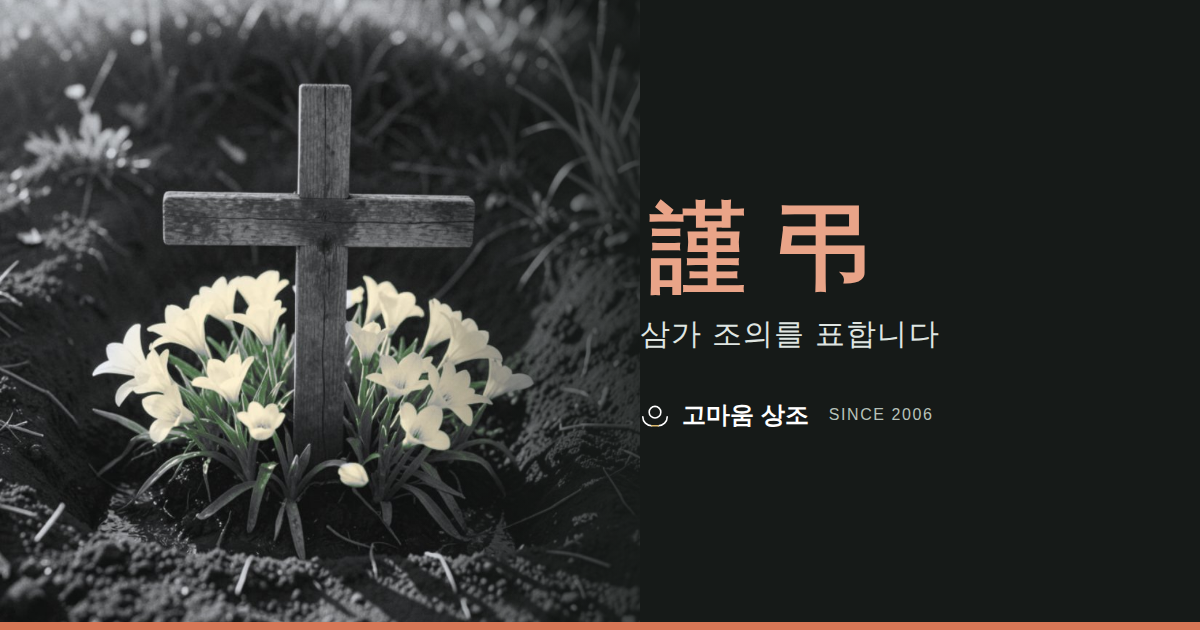
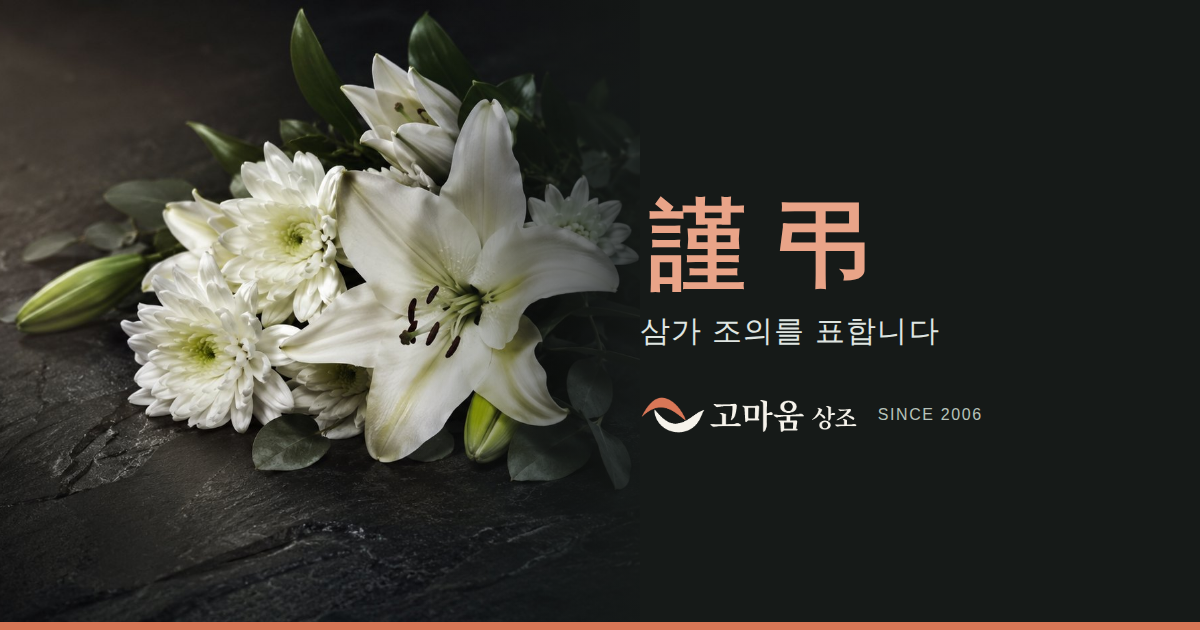
좁은 화면에서 표를 옆으로 밀지 않고 한 줄씩 세움
휴대폰에서 네 칸짜리 표를 옆으로 밀면 왼쪽 글자가 잘려 나가고 지금
어느 칸을 보는지 알 수 없었다. 한 줄을 한 장으로 세운다. 첫 칸이
연한 초록 머리가 되고, 나머지 칸은 이름과 값이 위아래로 놓인다.

칸 이름은 값 옆이 아니라 위에 올린다. 옆에 두면 값 안의 굵은 글씨가
칸 이름 자리로 떨어져 나가 엉뚱한 데 찍힌다.

세로로 묶인 칸(rowspan)이 있는 표는 세울 수 없다. 계산기의 항목별
내역과 단가표 두 곳이 여기 해당한다. 그 셋만 예전처럼 옆으로 밀되
안내 문구를 그대로 둔다. 좁은 화면에 맞춰 이미 짜 둔 비교표 여덟 개는
건드리지 않는다.

열아홉 쪽을 390px에서 확인했다. 세운 표 21, 미는 표 3, 그대로 8이고
가로로 넘치거나 잘리는 칸은 없다.

부고장 미리보기 카드에서 십자가를 빼고 백합만 남겼다. 특정 종교로
읽히지 않게 한다. 상호 자리에는 다른 쪽과 같은 로고를 넣었다.

Claude-Session: https://claude.ai/code/session_01GkdHr9oZgWkji8dZFs8UMJ

diff --git a/assets/css/gomaum.css b/assets/css/gomaum.css
@@ -1634,3 +1634,91 @@ section.gm-sec > h3 + ol { margin-top: 0; }
   .step .when { display: flex; align-items: center; gap: 8px; margin-bottom: 4px; }
   .step .when span { margin-top: 0; }
 }
+
+/* =========================================================
+   좁은 화면의 표 — 옆으로 밀지 않고 한 줄을 한 장으로 세운다
+   휴대폰에서 네 칸짜리 표를 옆으로 밀면 왼쪽 글자가 잘려 나가고
+   지금 어느 칸을 보고 있는지 알 수 없다. 한 줄을 한 장으로 세우고
+   칸 이름을 값 앞에 적어 위에서 아래로 읽히게 한다.
+   세로로 묶인 칸이 있는 표(계산기·단가표 일부)는 그대로 둔다.
+   ========================================================= */
+@media (max-width: 760px) {
+  .tw.tw-stack {
+    overflow-x: visible;
+    border: 0;
+    background: none;
+    box-shadow: none;
+    margin: 16px 0 20px;
+  }
+  .tw.tw-stack::after { content: none; }
+  .tw.tw-stack table { display: block; width: 100%; min-width: 0; }
+  .tw.tw-stack tbody { display: block; }
+
+  /* 칸 이름 줄은 화면에서 감춘다. 읽어 주는 기계에는 그대로 남는다. */
+  .tw.tw-stack thead {
+    position: absolute;
+    width: 1px; height: 1px;
+    overflow: hidden;
+    clip-path: inset(50%);
+    white-space: nowrap;
+  }
+  .tw.tw-stack caption {
+    display: block;
+    text-align: left;
+    padding: 0 0 8px;
+    font-size: 0.8rem;
+    font-weight: 700;
+    color: var(--ink-3);
+    letter-spacing: 0.02em;
+  }
+
+  .tw.tw-stack tr {
+    display: block;
+    background: var(--surface);
+    border: 1px solid var(--line);
+    box-shadow: var(--shadow);
+    margin: 0 0 10px;
+  }
+  .tw.tw-stack tr:last-child { margin-bottom: 0; }
+
+  .tw.tw-stack td {
+    display: block;
+    width: auto;
+    padding: 9px 14px 11px;
+    border: 0;
+    border-top: 1px solid var(--line);
+    white-space: normal;
+    text-align: left;
+    font-size: 0.95rem;
+    line-height: 1.62;
+  }
+  .tw.tw-stack td::before {
+    content: attr(data-label);
+    display: block;
+    margin-bottom: 1px;
+    font-size: 0.76rem;
+    font-weight: 700;
+    line-height: 1.7;
+    color: var(--ink-3);
+    letter-spacing: 0.02em;
+    word-break: keep-all;
+  }
+  .tw.tw-stack td:not([data-label])::before { content: none; }
+
+  /* 첫 칸은 그 줄의 이름이다. 장의 머리처럼 띄운다. */
+  .tw.tw-stack td:first-child {
+    display: block;
+    border-top: 0;
+    padding: 10px 14px;
+    background: var(--accent-soft);
+    color: var(--accent-deep);
+    font-weight: 700;
+    font-size: 1rem;
+  }
+  .tw.tw-stack td:first-child::before { content: none; }
+
+  /* 숫자 칸도 왼쪽에 붙인다. 세로로 서면 오른쪽 정렬은 읽기 어렵다. */
+  .tw.tw-stack td.num, .tw.tw-stack td.num::before { text-align: left; }
+  .tw.tw-stack td.num { font-family: var(--f-body); }
+  .tw.tw-stack td > .num, .tw.tw-stack td .tbd { white-space: normal; }
+}

diff --git a/assets/js/gm-menu.js b/assets/js/gm-menu.js
@@ -84,8 +84,47 @@
     var n3 = head.nextElementSibling && head.nextElementSibling.classList.contains("now3") ? head.nextElementSibling : head;
     n3.insertAdjacentHTML("afterend", q);
     document.querySelectorAll(".tier-call").forEach(function (a) { if (raw) a.href = "tel:" + raw; else { a.textContent = "상담 준비 중"; a.removeAttribute("href"); } });
-    // 표 안내
+    // 표: 좁은 화면에서는 옆으로 밀지 않고 한 줄을 한 장으로 세운다.
+    // 칸 이름을 각 칸에 붙여 두면 CSS가 "이름 / 값"으로 펼친다.
+    // 세로로 묶인 칸(rowspan)이 있는 표는 세울 수 없으므로 밀어 보는 그대로 둔다.
+    function colNames(table) {
+      var head = table.querySelector("thead tr");
+      if (!head) return null;
+      var names = [], hs = head.querySelectorAll("th");
+      for (var i = 0; i < hs.length; i++) {
+        var n = hs[i].textContent.trim();
+        for (var s = 0; s < (hs[i].colSpan || 1); s++) names.push(n);
+      }
+      if (names.length < 2) return null;
+      var body = table.querySelectorAll("tbody tr");
+      if (!body.length) return null;
+      for (var r = 0; r < body.length; r++) {
+        var cs = body[r].children;
+        for (var c = 0; c < cs.length; c++) if ((cs[c].rowSpan || 1) > 1) return null;
+      }
+      return names;
+    }
     document.querySelectorAll(".tw").forEach(function (t) {
+      var table = t.querySelector("table");
+      // cmp·wrap 표는 이미 좁은 화면에 맞춰 짜 두었다. 건드리지 않는다.
+      var fixed = t.classList.contains("cmp") || t.classList.contains("wrap");
+      var names = (table && !fixed) ? colNames(table) : null;
+      if (names) {
+        table.querySelectorAll("tbody tr").forEach(function (tr) {
+          var col = 0;
+          [].forEach.call(tr.children, function (td) {
+            var span = td.colSpan || 1;
+            var seen = {}, parts = [];
+            for (var i = col; i < col + span && i < names.length; i++) {
+              if (names[i] && !seen[names[i]]) { seen[names[i]] = 1; parts.push(names[i]); }
+            }
+            if (parts.length) td.setAttribute("data-label", parts.join(" · "));
+            col += span;
+          });
+        });
+        t.classList.add("tw-stack");
+        return;
+      }
       if (t.scrollWidth > t.clientWidth + 4) { t.classList.add("can-scroll"); t.insertAdjacentHTML("afterend", '<p class="tw-hint">표가 넓습니다. 옆으로 밀어 보세요.</p>'); }
     });
     // 차례 (데스크톱)

diff --git a/bugojang.html b/bugojang.html
@@ -20,7 +20,7 @@
 <link rel="preconnect" href="https://fonts.googleapis.com">
 <link rel="preconnect" href="https://fonts.gstatic.com" crossorigin>
 <link rel="stylesheet" href="https://fonts.googleapis.com/css2?family=Noto+Serif+KR:wght@400;600;700&family=IBM+Plex+Mono:wght@400;500;600&family=Noto+Sans+KR:wght@400;500;700&display=swap">
-<link rel="stylesheet" href="assets/css/gomaum.css?v=20260910c">
+<link rel="stylesheet" href="assets/css/gomaum.css?v=20260910d">
 <script src="assets/js/site-keys.js"></script>
 <script src="assets/js/quiet-horn.js" defer></script>
 <script src="assets/js/petals.js"></script>
@@ -179,7 +179,7 @@
     <div class="note">
       <p class="lbl">카카오톡에서 보이는 미리보기</p>
       <p>링크를 카카오톡에 붙이면 아래 카드가 먼저 뜨고, 누르면 부고장이 열립니다.</p>
-      <p style="margin:12px 0 0"><img src="assets/img/og-bugo.png" alt="카카오톡 미리보기 카드, 십자가와 백합 사진 위 謹弔" style="width:100%;max-width:340px;border:1px solid var(--line);display:block"></p>
+      <p style="margin:12px 0 0"><img src="assets/img/og-bugo.png" alt="카카오톡 미리보기 카드, 백합 사진 위 謹弔" style="width:100%;max-width:340px;border:1px solid var(--line);display:block"></p>
       <p style="margin-top:12px">미리보기 카드에는 <strong>고인의 성함이 나오지 않습니다.</strong> 카드 문구를 부고마다 다르게 하려면 서버가 필요한데, 이 도구는 서버에 아무것도 보내지 않는 방식이라 그렇습니다. 대신 <strong>단톡방 목록이나 잠금화면 알림에 고인 성함이 노출되지 않는다</strong>는 이점이 있습니다.</p>
     </div>
 
@@ -590,6 +590,6 @@
 
 <script src="assets/js/gm-chrome.js"></script>
 <script src="assets/js/gm-menu.js"></script>
-<script src="assets/js/gm-chat.js?v=20260910c"></script>
+<script src="assets/js/gm-chat.js?v=20260910d"></script>
 </body>
 </html>

diff --git a/sikjang.html b/sikjang.html
@@ -15,7 +15,7 @@
 <link rel="preconnect" href="https://fonts.googleapis.com">
 <link rel="preconnect" href="https://fonts.gstatic.com" crossorigin>
 <link rel="stylesheet" href="https://fonts.googleapis.com/css2?family=Noto+Serif+KR:wght@400;600;700&family=IBM+Plex+Mono:wght@400;500;600&family=Noto+Sans+KR:wght@400;500;700&display=swap">
-<link rel="stylesheet" href="assets/css/gomaum.css?v=20260910c">
+<link rel="stylesheet" href="assets/css/gomaum.css?v=20260910d">
 <style>
 .sj-map { scroll-margin-top: 76px; height: 380px; background: var(--surface-2); border: 1px solid var(--line); border-radius: var(--radius); margin: 18px 0 10px; }
 .sj-map[hidden] { display: none; }
@@ -205,7 +205,7 @@
 <script src="assets/js/site-keys.js"></script>
 <script src="assets/js/gm-chrome.js"></script>
 <script src="assets/js/gm-menu.js"></script>
-<script src="assets/js/gm-chat.js?v=20260910c"></script>
+<script src="assets/js/gm-chat.js?v=20260910d"></script>
 <script>
 /* ── 장례식장·납골당 찾기 ──────────────────────────────────
    site-keys.js에 카카오 JavaScript 키가 있으면: 내 주변(위치 허용) 또는 시·도/시·군·구 선택으로

diff --git a/index.html b/index.html
@@ -18,7 +18,7 @@
 <link rel="preconnect" href="https://fonts.googleapis.com">
 <link rel="preconnect" href="https://fonts.gstatic.com" crossorigin>
 <link rel="stylesheet" href="https://fonts.googleapis.com/css2?family=Noto+Serif+KR:wght@400;600;700&family=IBM+Plex+Mono:wght@400;500;600&family=Noto+Sans+KR:wght@400;500;700&display=swap">
-<link rel="stylesheet" href="assets/css/gomaum.css?v=20260910c">
+<link rel="stylesheet" href="assets/css/gomaum.css?v=20260910d">
 <style>
 /* ── 홈: 커버 한 장, 노래 하나, 전화 하나 ─────────────────
    음악 앱의 '지금 재생 중' 화면처럼. 사진, 이름, 재생 막대, 그리고 전화. */
@@ -344,7 +344,7 @@ a { color: inherit; }
 <script src="assets/js/site-keys.js"></script>
 <script src="assets/js/quiet-horn.js"></script>
 <script src="assets/js/gm-menu.js"></script>
-<script src="assets/js/gm-chat.js?v=20260910c"></script>
+<script src="assets/js/gm-chat.js?v=20260910d"></script>
 <script src="assets/js/petals.js"></script>
 <script>
 /* 떨어지는 백합 꽃잎 — 사진 위, 글자 위로는 옅어진다 */

diff --git a/yaksok.html b/yaksok.html
@@ -16,7 +16,7 @@
 <link rel="preconnect" href="https://fonts.googleapis.com">
 <link rel="preconnect" href="https://fonts.gstatic.com" crossorigin>
 <link rel="stylesheet" href="https://fonts.googleapis.com/css2?family=Noto+Serif+KR:wght@400;600;700&family=IBM+Plex+Mono:wght@400;500;600&family=Noto+Sans+KR:wght@400;500;700&display=swap">
-<link rel="stylesheet" href="assets/css/gomaum.css?v=20260910c">
+<link rel="stylesheet" href="assets/css/gomaum.css?v=20260910d">
 <style>
 .yk-vision { font-family: var(--f-display); font-size: clamp(1.6rem, 5vw, 2.5rem); font-weight: 700; line-height: 1.34; margin: 0 0 14px; letter-spacing: -0.02em; color: #fff; text-shadow: 0 2px 16px rgba(0,0,0,0.55); }
 .yk-vision span { background: none; color: #fff; padding: 0; }
@@ -144,6 +144,6 @@
 <script src="assets/js/site-keys.js"></script>
 <script src="assets/js/gm-chrome.js"></script>
 <script src="assets/js/gm-menu.js"></script>
-<script src="assets/js/gm-chat.js?v=20260910c"></script>
+<script src="assets/js/gm-chat.js?v=20260910d"></script>
 </body>
 </html>

diff --git a/hyeopryeok.html b/hyeopryeok.html
@@ -15,7 +15,7 @@
 <link rel="preconnect" href="https://fonts.googleapis.com">
 <link rel="preconnect" href="https://fonts.gstatic.com" crossorigin>
 <link rel="stylesheet" href="https://fonts.googleapis.com/css2?family=Noto+Serif+KR:wght@400;600;700&family=IBM+Plex+Mono:wght@400;500;600&family=Noto+Sans+KR:wght@400;500;700&display=swap">
-<link rel="stylesheet" href="assets/css/gomaum.css?v=20260910c">
+<link rel="stylesheet" href="assets/css/gomaum.css?v=20260910d">
 <style>
 .pt { list-style: none; margin: 0; padding: 0; }
 .pt li { padding: 22px 0; border-bottom: 1px solid var(--line); display: grid; grid-template-columns: 1fr; gap: 6px; }
@@ -152,6 +152,6 @@
 <script src="assets/js/site-keys.js"></script>
 <script src="assets/js/gm-chrome.js"></script>
 <script src="assets/js/gm-menu.js"></script>
-<script src="assets/js/gm-chat.js?v=20260910c"></script>
+<script src="assets/js/gm-chat.js?v=20260910d"></script>
 </body>
 </html>

diff --git a/404.html b/404.html
@@ -3,7 +3,7 @@
 <link rel="preconnect" href="https://fonts.googleapis.com">
 <link rel="preconnect" href="https://fonts.gstatic.com" crossorigin>
 <link rel="stylesheet" href="https://fonts.googleapis.com/css2?family=Noto+Serif+KR:wght@400;600;700&family=IBM+Plex+Mono:wght@400;500;600&family=Noto+Sans+KR:wght@400;500;700&display=swap">
-<link rel="stylesheet" href="/assets/css/gomaum.css?v=20260910c"></head>
+<link rel="stylesheet" href="/assets/css/gomaum.css?v=20260910d"></head>
 <body><main style="max-width:560px;margin:80px auto;padding:0 20px;text-align:center">
 <a href="/" aria-label="고마움 상조 홈"><img src="/assets/img/brand-mark.png" width="1272" height="222" alt="고마움 상조" style="height:28px;width:auto;display:inline-block"></a>
 <h1 style="font-family:var(--f-display);font-size:1.8rem;margin:20px 0 10px">이 주소에는 페이지가 없습니다</h1>

diff --git a/faq.html b/faq.html
@@ -16,7 +16,7 @@
 <link rel="preconnect" href="https://fonts.googleapis.com">
 <link rel="preconnect" href="https://fonts.gstatic.com" crossorigin>
 <link rel="stylesheet" href="https://fonts.googleapis.com/css2?family=Noto+Serif+KR:wght@400;600;700&family=IBM+Plex+Mono:wght@400;500;600&family=Noto+Sans+KR:wght@400;500;700&display=swap">
-<link rel="stylesheet" href="assets/css/gomaum.css?v=20260910c">
+<link rel="stylesheet" href="assets/css/gomaum.css?v=20260910d">
 <script type="application/ld+json">
 {
  "@context": "https://schema.org",
@@ -280,6 +280,6 @@
 <script src="assets/js/site-keys.js"></script>
 <script src="assets/js/gm-chrome.js"></script>
 <script src="assets/js/gm-menu.js"></script>
-<script src="assets/js/gm-chat.js?v=20260910c"></script>
+<script src="assets/js/gm-chat.js?v=20260910d"></script>
 </body>
 </html>

diff --git a/bugo.html b/bugo.html
@@ -15,7 +15,7 @@
 <link rel="preconnect" href="https://fonts.googleapis.com">
 <link rel="preconnect" href="https://fonts.gstatic.com" crossorigin>
 <link rel="stylesheet" href="https://fonts.googleapis.com/css2?family=Noto+Serif+KR:wght@400;600;700&family=IBM+Plex+Mono:wght@400;500;600&family=Noto+Sans+KR:wght@400;500;700&display=swap">
-<link rel="stylesheet" href="assets/css/gomaum.css?v=20260910c">
+<link rel="stylesheet" href="assets/css/gomaum.css?v=20260910d">
 </head>
 <body>
 
@@ -430,6 +430,6 @@
 <script src="assets/js/site-keys.js"></script>
 <script src="assets/js/gm-chrome.js"></script>
 <script src="assets/js/gm-menu.js"></script>
-<script src="assets/js/gm-chat.js?v=20260910c"></script>
+<script src="assets/js/gm-chat.js?v=20260910d"></script>
 </body>
 </html>

diff --git a/christian.html b/christian.html
@@ -15,7 +15,7 @@
 <link rel="preconnect" href="https://fonts.googleapis.com">
 <link rel="preconnect" href="https://fonts.gstatic.com" crossorigin>
 <link rel="stylesheet" href="https://fonts.googleapis.com/css2?family=Noto+Serif+KR:wght@400;600;700&family=IBM+Plex+Mono:wght@400;500;600&family=Noto+Sans+KR:wght@400;500;700&display=swap">
-<link rel="stylesheet" href="assets/css/gomaum.css?v=20260910c">
+<link rel="stylesheet" href="assets/css/gomaum.css?v=20260910d">
 </head>
 <body>
 
@@ -229,6 +229,6 @@
 <script src="assets/js/site-keys.js"></script>
 <script src="assets/js/gm-chrome.js"></script>
 <script src="assets/js/gm-menu.js"></script>
-<script src="assets/js/gm-chat.js?v=20260910c"></script>
+<script src="assets/js/gm-chat.js?v=20260910d"></script>
 </body>
 </html>

diff --git a/danga.html b/danga.html
@@ -15,7 +15,7 @@
 <link rel="preconnect" href="https://fonts.googleapis.com">
 <link rel="preconnect" href="https://fonts.gstatic.com" crossorigin>
 <link rel="stylesheet" href="https://fonts.googleapis.com/css2?family=Noto+Serif+KR:wght@400;600;700&family=IBM+Plex+Mono:wght@400;500;600&family=Noto+Sans+KR:wght@400;500;700&display=swap">
-<link rel="stylesheet" href="assets/css/gomaum.css?v=20260910c">
+<link rel="stylesheet" href="assets/css/gomaum.css?v=20260910d">
 </head>
 <body>
 
@@ -259,6 +259,6 @@
 <script src="assets/js/site-keys.js"></script>
 <script src="assets/js/gm-chrome.js"></script>
 <script src="assets/js/gm-menu.js"></script>
-<script src="assets/js/gm-chat.js?v=20260910c"></script>
+<script src="assets/js/gm-chat.js?v=20260910d"></script>
 </body>
 </html>
